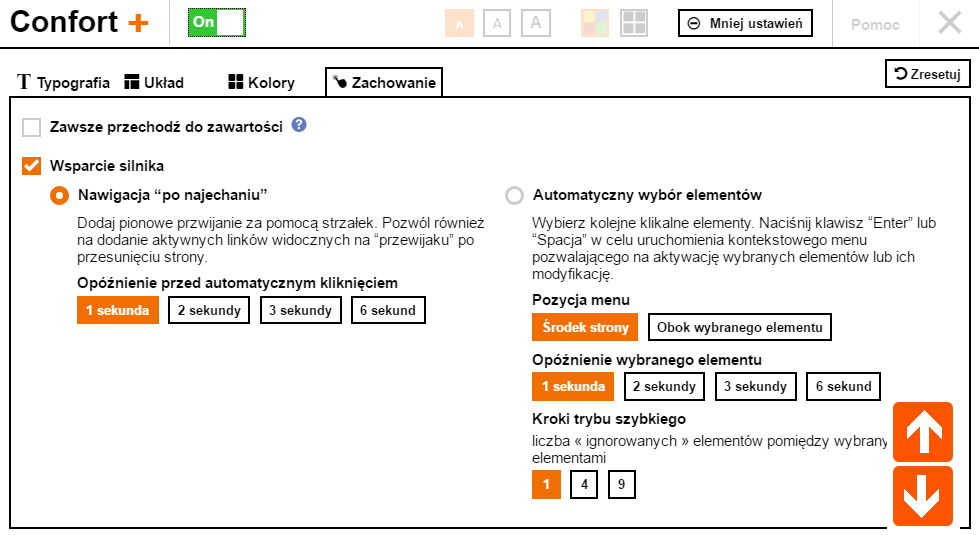
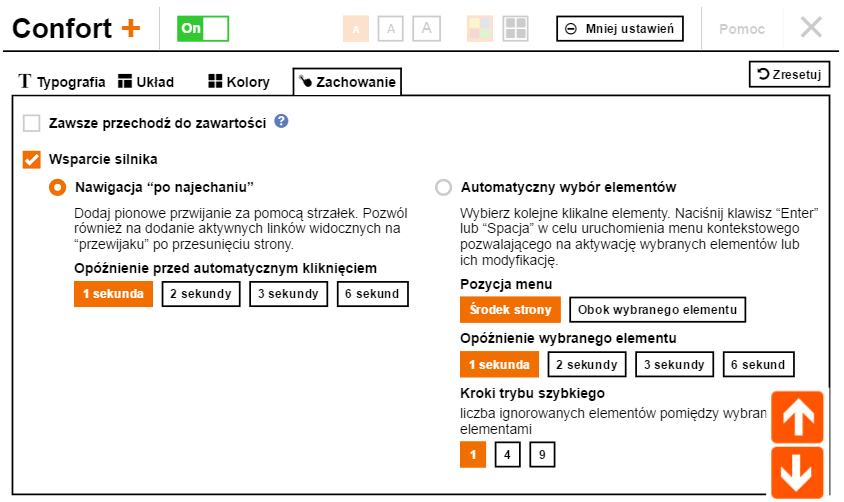
update polish wording

Changed region(s): [[0.0, 0.0, 1.0, 1.0]]

diff --git a/docs/index_pl.html b/docs/index_pl.html
@@ -30,7 +30,7 @@
         </div>
 		<div class="row">
             <div class="col-md-offset-1 col-md-10 ">		
-                <h2>Orange Confort+ to rozwiązanie typu open source, mające na celu wyszczególnienie treści na stronach tak, aby były przyjazne osobom z niepełnosprawnościami</h2>
+                <h2>Orange Confort+ to rozwiązanie typu open source, mające na celu wyszczególnienie treści na stronach tak, aby były przyjazne osobom z niepełnosprawnościami.</h2>
                 <div class="jumbotron">
                 <div>Usługa zapewnia około dwudziestu usprawnień, aby dopasować się do Twoich potrzeb. Jeśli masz problemy ze wzrokiem, kłopoty z rozpoznawaniem słów np. z powodu dysleksji, trudności z użyciem myszy lub ogólne problemy z użyciem komputera, Orange Confort+ oferuje rozwiązanie; narzędzie wystarczy włączyć raz, a wszystkie strony internetowe będą się dostosowywać pod Twoje preferencje.</div>
                   <br>
@@ -84,7 +84,7 @@ Usługa gwarantuje, że zawartość jak i wszystkie funkcje strony zostaną zach
                     <ul>
                     <li>
                         <h3>Typografia</h3>
-                        Możliwość zmiany czcionek, ich rozmiaru, oraz przerw między słowami. Funkcja przydatna dla użytkowników z dysleksją, problemami ze wzrokiem, lub po prostu dla tych, którym nie odpowiada dany układ graficzny strony.
+                        Możliwość zmiany czcionek, ich rozmiaru, oraz odstępów między słowami. Funkcja przydatna dla użytkowników z dysleksją, problemami ze wzrokiem, lub po prostu dla tych, którym nie odpowiada dany układ graficzny strony.
                         <img class="img-center" src="img/typographie_pl.png" alt="Zakładka ustawień typograficznych">
                         <br>
                         <!--<legend>Onglet de réglages typographie</legend>-->
@@ -108,10 +108,10 @@ Usługa gwarantuje, że zawartość jak i wszystkie funkcje strony zostaną zach
                         <img class="img-center" src="img/comportement_pl.png" alt="Zakłada ustawień dla osób niepełnosprawnych ruchowo">
                         <br>
                         <h4>Nawigacja myszą bez konieczności klikania</h4>
-                        Funkcjonalność przydatna dla użytkowników którzy nie są w stanie kliknać myszą lub używać klawiatury. Po prawej stronie ekranu pojawiają się strzałki, i w zależności od pozycji kursora nad lub pod nimi, strona jest odpowiednio przewijania. Gdy kursor znajdzie się nad elemtentem który można kliknąć (np. link), jest on aktywowany po czasie wybranym przez użytkownika: 1 sek, 2 sek lub więcej.
+                        Funkcjonalność przydatna dla użytkowników, którzy nie są w stanie kliknąć myszą lub używać klawiatury. Po prawej stronie ekranu pojawiają się strzałki, i w zależności od pozycji kursora nad lub pod nimi, strona jest odpowiednio przewijania. Gdy kursor znajdzie się nad elemtentem który można kliknąć (np. link), jest on aktywowany po czasie wybranym przez użytkownika: 1 sek, 2 sek lub więcej.
 
                         <h4>Automatyczny wybór elementów nawigacyjnych</h4>
-                        Ta funkcja jest kluczowa dla użytkowników którzy nie są w stanie użyć myszy, i korzystają a jedynie z klawiatury. Funkcja automatycznie skanuje całą stronę, aby znaleźć wszystkie elementy z możliwością wyboru, oraz formularze. Wciśnięcie spacji lub klawisza Enter otwiera menu kontekstowe, które pozwala na wybór następujących opcji: aktywację wybranego elementu, dalsze nawigowanie strony, przełączenie do trybu szybkiej nawigacji, lub nawigowanie z powrotem.
+                        Ta funkcja jest kluczowa dla użytkowników, którzy nie są w stanie użyć myszy i korzystają jedynie z klawiatury. Funkcja automatycznie skanuje całą stronę, aby znaleźć wszystkie elementy z możliwością wyboru, oraz formularze. Wciśnięcie spacji lub klawisza Enter otwiera menu kontekstowe, które pozwala na wybór następujących opcji: aktywację wybranego elementu, dalsze nawigowanie strony, przełączenie do trybu szybkiej nawigacji, lub nawigowanie z powrotem.
                     </li>
                 </ul>
             </div>

diff --git a/app/language/pl.js b/app/language/pl.js
@@ -23,7 +23,7 @@ traduction['PL']={
   uci_title_color_keepit:"Domyślne kolory",
   uci_title_color_blackonwhite:"Czarny tekst na białym tle",
   uci_title_color_whiteonblack:"Biały tekst na czarnym tle",
-  uci_title_color_blueonyellow:"Niebieski tekst na żółtym tle",
+  uci_title_color_blueonyellow:"Niebieski tekst na żółtym tle",        
   uci_title_color_yellowonblue:"Żółty tekst na niebieskim tle",
   uci_title_color_greenonblack:"Zielony tekst na czarnym tle",
   uci_title_color_blackongreen:"Czarny tekst na zielonym tle",
@@ -84,7 +84,7 @@ uci_label_putnumonlist:"Lista z numerami elementów",
 uci_label_disabletransp:"Usuń efekt przezroczystości",
 uci_label_disablebgpictures:"Wyłącz obrazy w tle",
 uci_label_disablepppictures:"Anuluj obrazy z pierwszego planu",
-uci_label_mask:"Pokaż odczytywalną maskę",
+uci_label_mask:"Włącz podświetlenie selektywne",
 uci_link_display_picture:"Pokaż ten obraz :",
 uci_link_display_picture_no_alt:"Opis niedostępny",
 uci_titre_links:"Wygląd linków nawigacyjnych",
@@ -102,7 +102,7 @@ uci_link_render_options_underline:"podkreśl",
 uci_link_render_options_border:"pole",
 uci_link_render_options_bold:"pogrubienie",
 uci_txt_mask_size:"Wysokość maski",
-uci_help_listmode:"Ta funkcja pozwala zmienić fonty użyte na stronie na Twoją domyślną rodzinę fontów (zdefiniowaną w Twojej przeglądarce lub na Twoim komputerze). Ponadto tekst wyświetlany jest linearnie, bez podziału na kolumny.",
+uci_help_listmode:"Ta funkcja pozwala zmienić czcionki użyte na stronie na Twoją domyślną rodzinę czcionek (zdefiniowaną w Twojej przeglądarce lub na Twoim komputerze). Ponadto, tekst wyświetlany jest linearnie, bez podziału na kolumny.",
 uci_help_disabletransp:"To funkcja umożliwiająca wyłączenie potencjalnie transparentnych elementów. Dzięki temu zmniejsza zakłócenia podczas czytania strony.",
 uci_help_disablepppictures:"Ta funkcja ukrywa grafiki umieszczone na stronie w celu uniknięcia zakłóceń w czytaniu. Grafiki użyte na stronie zastępowane są ich tekstowymi odpowiednikami. Odnośnik pozwala sprawdzenie grafiki na żądanie.",
 uci_help_links:"Ta funkcja pozwala zdefiniować widoczność linków. Możesz wybrać kolor oraz szczegóły formatowania.",
@@ -123,12 +123,12 @@ uci_label_2sec:"2 sekundy",
 uci_label_3sec:"3 sekundy",
 uci_label_6sec:"6 sekund",
 uci_label_automove:"Automatyczny wybór elementów",
-uci_help_automove:"Wybierz  kolejne klikalne elementy. Naciśnij klawisz “Enter” lub “Spacja” w celu uruchomienia kontekstowego menu pozwalającego na aktywację wybranych elementów lub ich modyfikację.",
+uci_help_automove:"Wybierz  kolejne klikalne elementy. Naciśnij klawisz “Enter” lub “Spacja” w celu uruchomienia menu kontekstowego pozwalającego na aktywację wybranych elementów lub ich modyfikację.",
 uci_legend_menupos:"Pozycja menu",
 uci_label_centeredmenu:"Środek strony",
 uci_label_nearelemtmenu:"Obok wybranego elementu",
 uci_legend_time_before_sel:"Opóźnienie wybranego elementu",
-uci_help_quickmode:"liczba \253 ignorowanych \273 elementów pomiędzy wybranymi elementami",
+uci_help_quickmode:"liczba ignorowanych elementów pomiędzy wybranymi elementami",
 uci_legend_pasquickmode:"Kroki trybu szybkiego",
 uci_label_2par2:"1",
 uci_label_5par5:"4",
